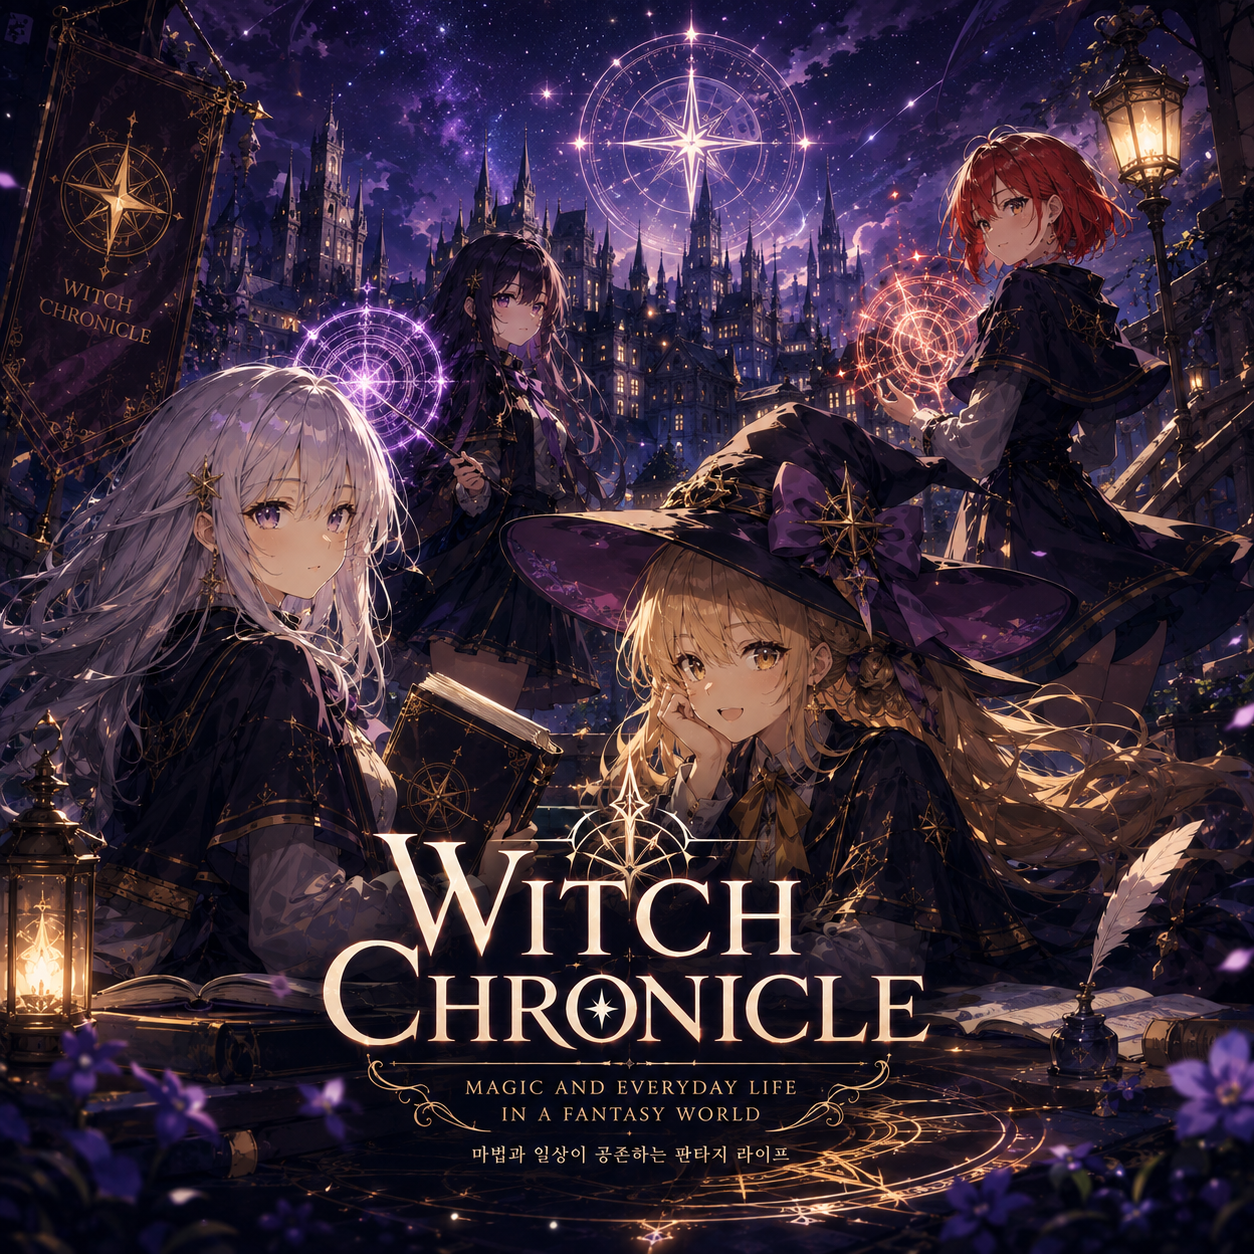
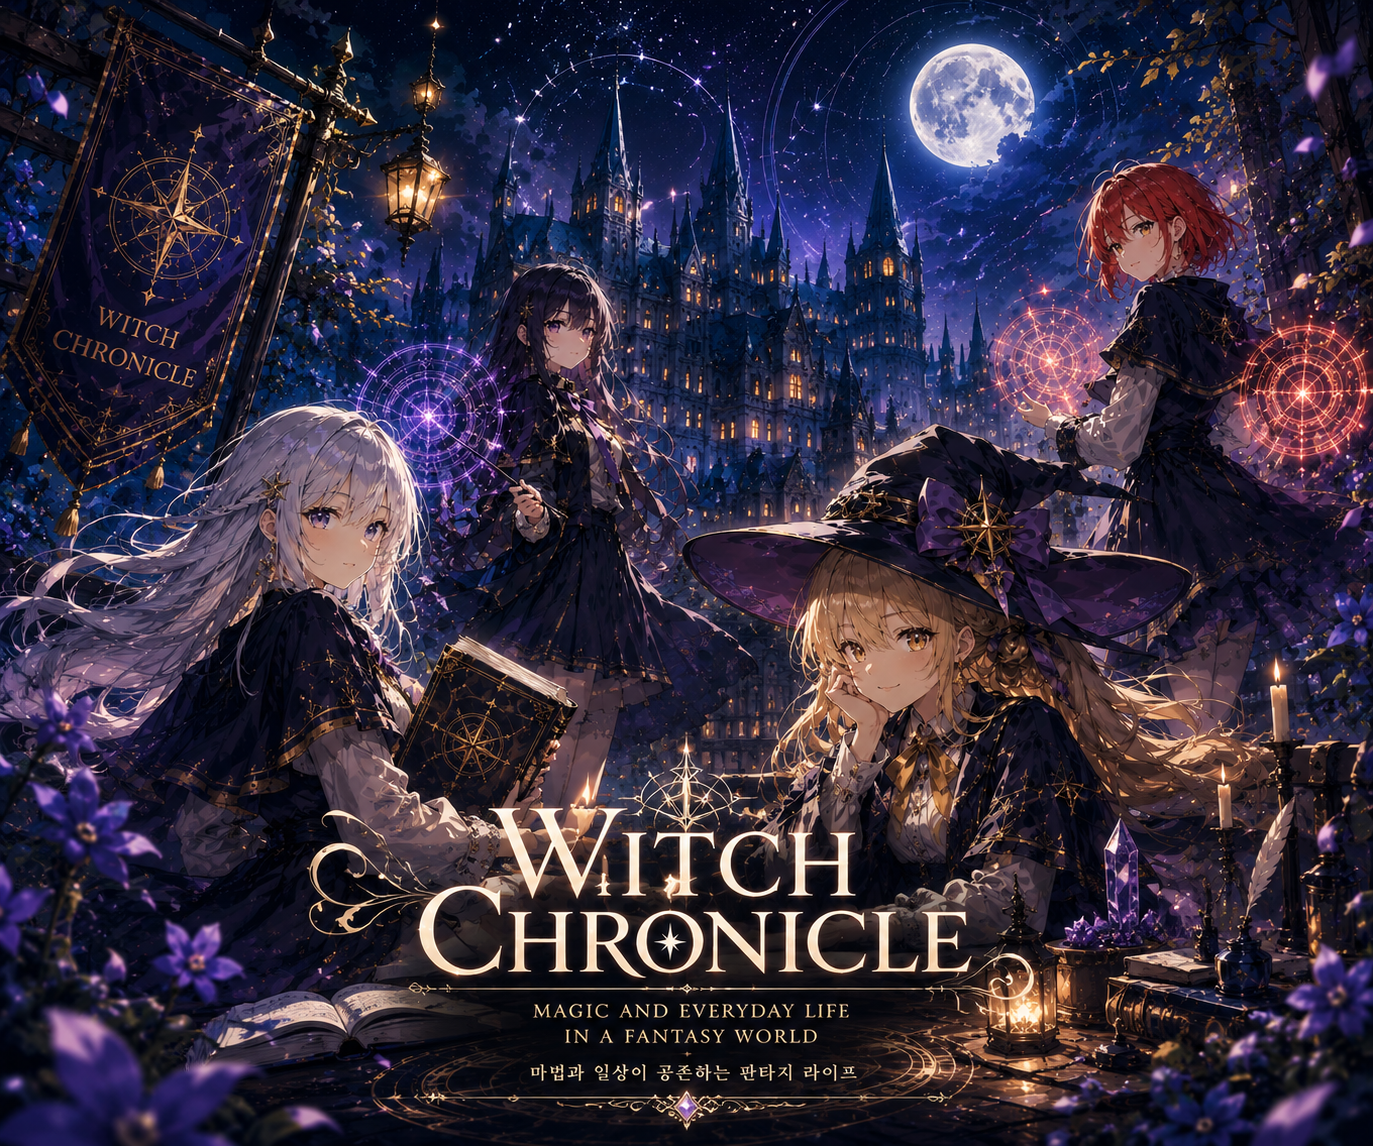
[260824] Update featured project

diff --git a/css/style.css b/css/style.css
@@ -562,7 +562,8 @@ a {
   all: unset;
   cursor: pointer;
   display: grid;
-  grid-template-columns: 1.5fr 1fr;
+  grid-template-columns: 960px 1fr;
+  height: 800px;
   gap: 48px;
   align-items: stretch;
   border: 1px solid rgba(255, 255, 255, 0.1);
@@ -580,19 +581,20 @@ a {
 }
 .featured-media {
   position: relative;
-  min-height: 520px;
+  height: 100%;
   background: #16161a;
 }
 .featured-media .project-thumb-img,
 .featured-media .img-slot {
   width: 100%;
   height: 100%;
-  object-fit: cover;
+  object-fit: contain;
 }
 .featured-info {
   padding: 44px 44px 44px 0;
   display: flex;
   flex-direction: column;
+  overflow-y: auto;
 }
 .featured-meta {
   grid-template-columns: repeat(2, 1fr);
@@ -609,9 +611,10 @@ a {
 @media (max-width: 900px) {
   .featured-card {
     grid-template-columns: 1fr;
+    height: auto;
   }
   .featured-media {
-    min-height: 260px;
+    height: 280px;
   }
   .featured-info {
     padding: 30px 26px 34px;
